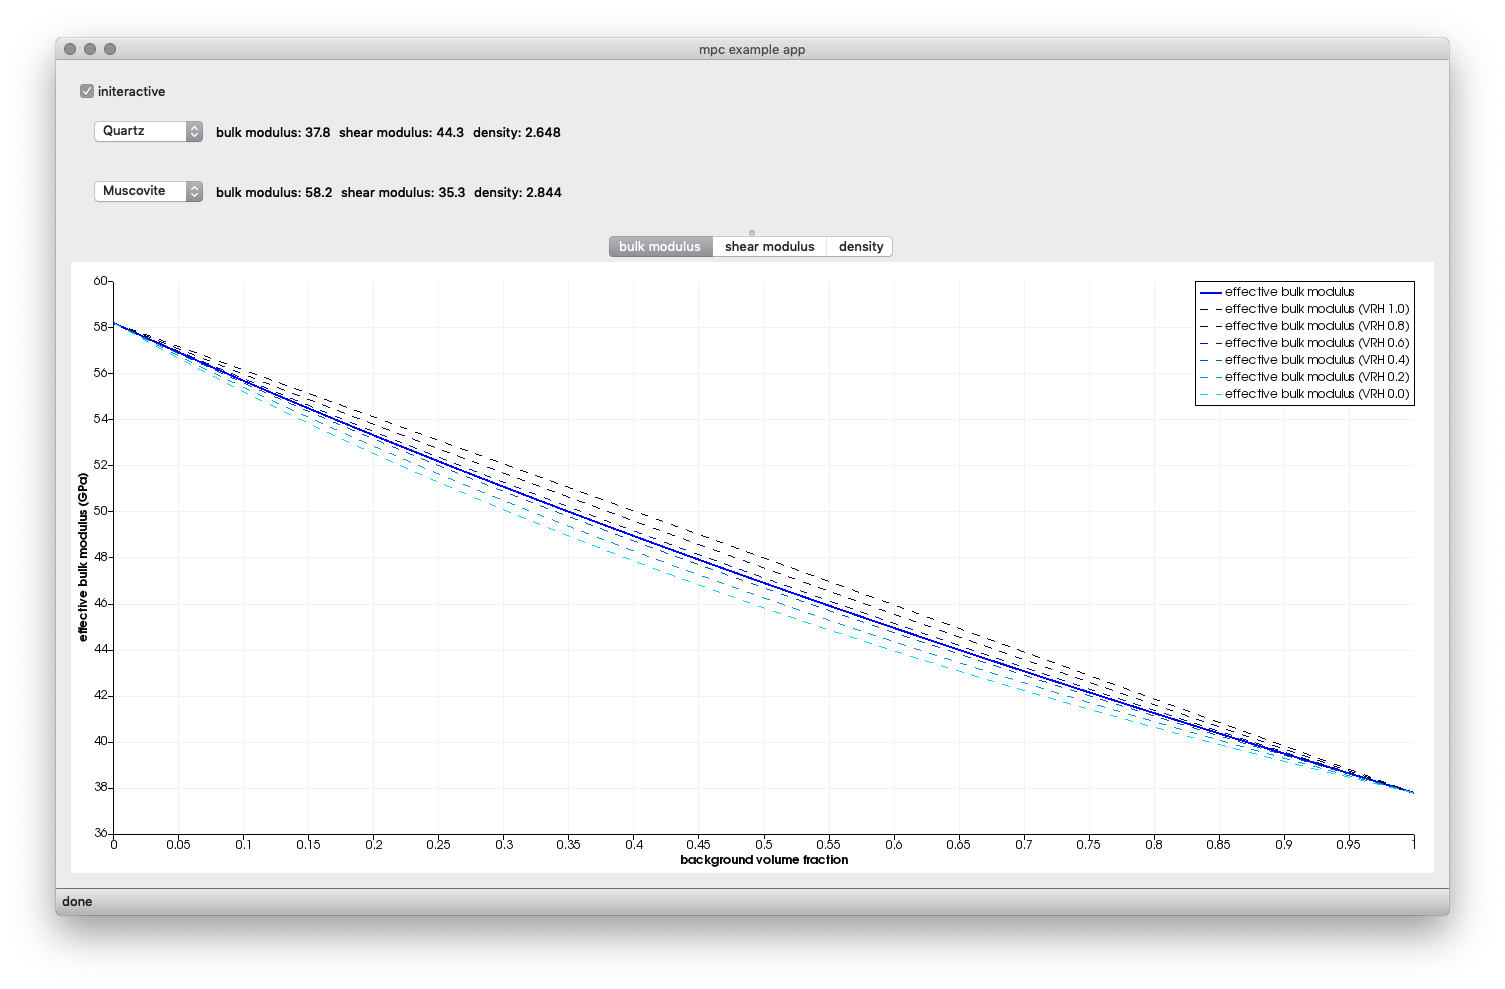
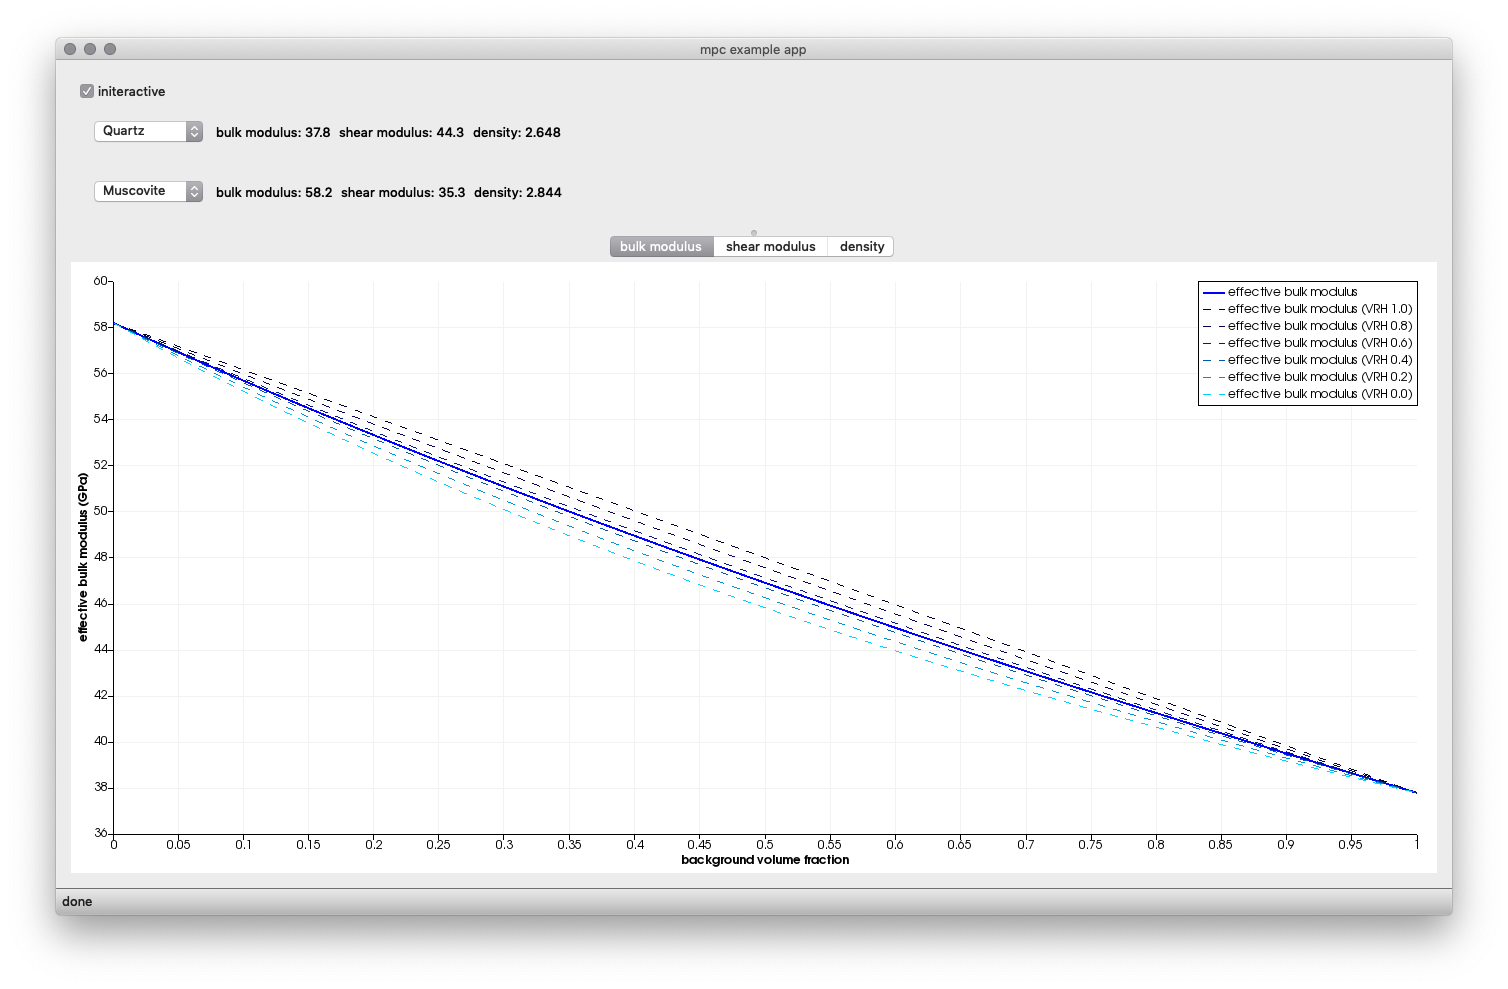
new images

diff --git a/exampleapp/solidphaseview2.cpp b/exampleapp/solidphaseview2.cpp
@@ -517,7 +517,7 @@ SolidPhaseView2::SolidPhaseView2(QWidget *parent) {
     line_effmu_00->GetPen()->SetLineType(vtkPen::DASH_LINE);
 
     vtkchart_effmu->SetShowLegend(true);
-    vtkchart_effmu->GetAxis(vtkAxis::BOTTOM)->SetTitle("mudrock volume fraction");
+    vtkchart_effmu->GetAxis(vtkAxis::BOTTOM)->SetTitle("background volume fraction");
     vtkchart_effmu->GetAxis(vtkAxis::LEFT)->SetTitle("effective shear modulus (GPa)");
 
     qvtkopenglwidget_rho = new QVTKOpenGLWidget(this);
@@ -541,7 +541,7 @@ SolidPhaseView2::SolidPhaseView2(QWidget *parent) {
 
 
     vtkchart_effrho->SetShowLegend(true);
-    vtkchart_effrho->GetAxis(vtkAxis::BOTTOM)->SetTitle("mudrock volume fraction");
+    vtkchart_effrho->GetAxis(vtkAxis::BOTTOM)->SetTitle("background volume fraction");
     vtkchart_effrho->GetAxis(vtkAxis::LEFT)->SetTitle("effective density (g/cm**3)");
 
 
